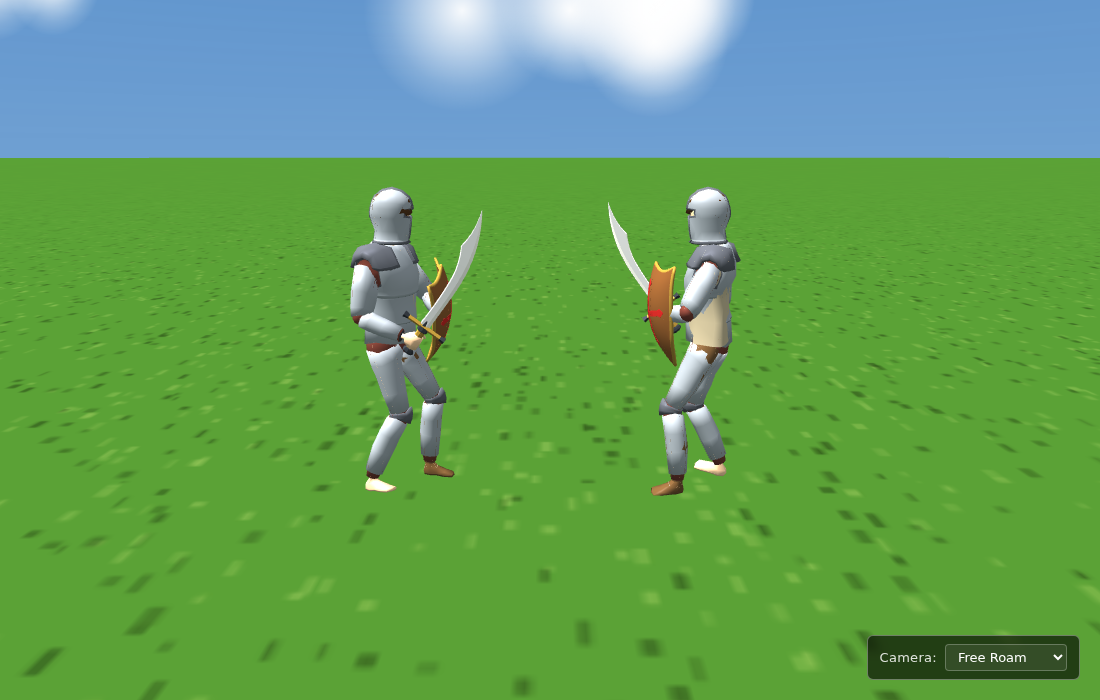
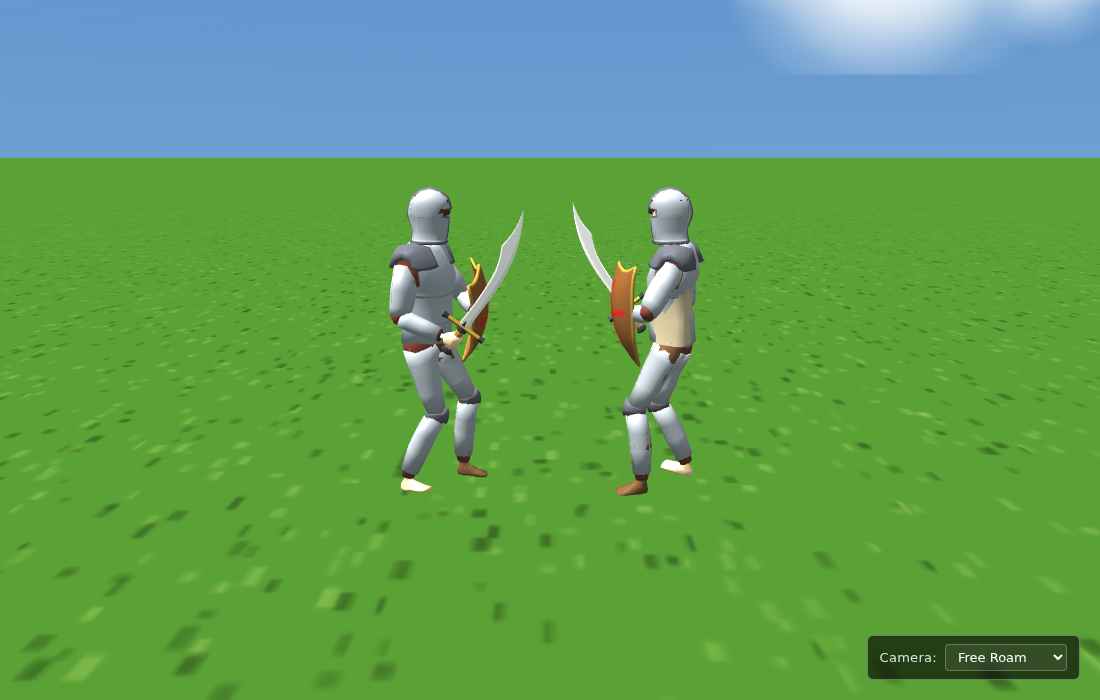
commit

diff --git a/src/game/characters/opponent.ts b/src/game/characters/opponent.ts
@@ -1,10 +1,7 @@
 import '@babylonjs/loaders/glTF'
 import {
-  Animation,
-  AnimationGroup,
   Color3,
   Mesh,
-  Quaternion,
   Scene,
   SceneLoader,
   StandardMaterial,
@@ -34,8 +31,8 @@ const MAT_COLORS: Record<string, Color3> = {
 const FALLBACK = new Color3(0.55, 0.55, 0.55)
 
 export type OpponentApi = {
-  playSlash: () => void
-  playBlock: () => void
+  // Empty for now — combat actions are user-authored animations bound to
+  // keys via the editor's animation row.
 }
 
 export function createOpponent(scene: Scene): Promise<OpponentApi | null> {
@@ -77,82 +74,8 @@ export function createOpponent(scene: Scene): Promise<OpponentApi | null> {
       result.animationGroups.forEach((g) => g.stop())
       combatIdle?.start(true)
 
-      // --- Block animation (coded, since the GLB doesn't ship one) ---
-      // Rotate Upper Arm.L so the arm raises in front + up, bringing the
-      // shield (held in Hand.L) toward the head. Forearm + hand follow as
-      // children — no separate keyframes needed for them.
-      const upperArmL = skeleton?.bones.find((b) => b.name === 'Upper Arm.L') ?? null
-      let restQuatL: Quaternion | null = null
-      if (upperArmL) {
-        upperArmL.rotationQuaternion =
-          upperArmL.rotationQuaternion ?? upperArmL.rotation.toQuaternion()
-        restQuatL = upperArmL.rotationQuaternion.clone()
-      }
-
-      // Block = small shoulder rotation that lifts the elbow ~30cm while
-      // keeping the shield nearly vertical (pure translation would stretch
-      // the skinned arm; small rotation is the clean way).
-      const upperArmLNode = upperArmL?._linkedTransformNode
-        ?? scene.getTransformNodeByName('Upper Arm.L')
-      const ensureQuat = (n: typeof upperArmLNode) => {
-        if (!n) return null
-        n.rotationQuaternion = n.rotationQuaternion ?? n.rotation.toQuaternion()
-        return n.rotationQuaternion.clone()
-      }
-      const restUpperL = ensureQuat(upperArmLNode)
-
-      let blockActive = false
-      const playBlock = () => {
-        if (!upperArmLNode || !restUpperL || blockActive) return
-        blockActive = true
-        combatIdle?.pause()
-
-        // ~40° rotation around local X — small enough to barely tilt the
-        // shield, big enough to lift elbow ~30cm at ~0.5m arm length.
-        const offset = Quaternion.RotationAxis(new Vector3(1, 0, 0), Math.PI * 0.22)
-        const blockQuat = restUpperL.multiply(offset)
-
-        const anim = new Animation(
-          'opp_block', 'rotationQuaternion', 30,
-          Animation.ANIMATIONTYPE_QUATERNION,
-          Animation.ANIMATIONLOOPMODE_CONSTANT,
-        )
-        anim.setKeys([
-          { frame: 0,  value: restUpperL.clone() },
-          { frame: 6,  value: blockQuat },
-          { frame: 18, value: blockQuat },
-          { frame: 26, value: restUpperL.clone() },
-        ])
-        scene.beginDirectAnimation(
-          upperArmLNode, [anim], 0, 26, false, 1.0,
-          () => {
-            blockActive = false
-            upperArmLNode.rotationQuaternion = restUpperL.clone()
-            combatIdle?.play(true)
-          },
-        )
-      }
-
-      let slashActive = false
-      const playSlash = () => {
-        if (!slashAnim || slashActive) return
-        slashActive = true
-        // Pause idle while slash plays so it doesn't fight for the bones
-        combatIdle?.pause()
-        slashAnim.stop()
-        slashAnim.onAnimationGroupEndObservable.addOnce(() => {
-          slashActive = false
-          combatIdle?.play(true)
-        })
-        slashAnim.start(false, 1.0)
-      }
-
       console.log(
-        `[opponent] knight loaded — ${result.meshes.length} meshes, ` +
-          `${result.skeletons.length} skeletons, ` +
-          `${result.animationGroups.length} animations. ` +
-          `Slash:${slashAnim ? 'yes' : 'NO'} Idle:${combatIdle ? 'yes' : 'NO'} ` +
-          `UpperArmL:${upperArmL ? 'yes' : 'NO'}`,
+        `[opponent] knight loaded — ${result.meshes.length} meshes`,
       )
 
       const playCustomAnimation = (keyframes: AnimationKeyframe[]) => {
@@ -165,7 +88,7 @@ export function createOpponent(scene: Scene): Promise<OpponentApi | null> {
 
       const api: OpponentApi & {
         playCustomAnimation: (kfs: AnimationKeyframe[]) => void
-      } = { playSlash, playBlock, playCustomAnimation }
+      } = { playCustomAnimation }
       ;(window as any).__opponent = api
       return api
     })

diff --git a/src/game/characters/hero.ts b/src/game/characters/hero.ts
@@ -1,9 +1,7 @@
 import '@babylonjs/loaders/glTF'
 import {
-  Animation,
   Color3,
   Mesh,
-  Quaternion,
   Scene,
   SceneLoader,
   StandardMaterial,
@@ -43,8 +41,6 @@ const HIDDEN_MESHES = new Set(['Helmet', 'Hair'])
 import type { TransformNode } from '@babylonjs/core'
 
 export type HeroApi = {
-  playStrike: () => void
-  playBlock: () => void
   getHeadNode: () => TransformNode | null
 }
 
@@ -99,60 +95,8 @@ export function createHero(scene: Scene): Promise<HeroApi | null> {
       const headBone = skeleton?.bones.find((b) => b.name === 'Head')
       const headNode = headBone?._linkedTransformNode ?? null
 
-      // --- Hero's block (mirror of opponent's coded block) ---
-      const upperArmL = skeleton?.bones.find((b) => b.name === 'Upper Arm.L')
-      const upperArmLNode = upperArmL?._linkedTransformNode ?? null
-      let restUpperL: Quaternion | null = null
-      if (upperArmLNode) {
-        upperArmLNode.rotationQuaternion =
-          upperArmLNode.rotationQuaternion ?? upperArmLNode.rotation.toQuaternion()
-        restUpperL = upperArmLNode.rotationQuaternion.clone()
-      }
-
-      let blockActive = false
-      const playBlock = () => {
-        if (!upperArmLNode || !restUpperL || blockActive) return
-        blockActive = true
-        combatIdle?.pause()
-        const offset = Quaternion.RotationAxis(new Vector3(1, 0, 0), Math.PI * 0.22)
-        const blockQuat = restUpperL.multiply(offset)
-        const anim = new Animation(
-          'hero_block', 'rotationQuaternion', 30,
-          Animation.ANIMATIONTYPE_QUATERNION,
-          Animation.ANIMATIONLOOPMODE_CONSTANT,
-        )
-        anim.setKeys([
-          { frame: 0,  value: restUpperL.clone() },
-          { frame: 6,  value: blockQuat },
-          { frame: 18, value: blockQuat },
-          { frame: 26, value: restUpperL.clone() },
-        ])
-        scene.beginDirectAnimation(
-          upperArmLNode, [anim], 0, 26, false, 1.0,
-          () => {
-            blockActive = false
-            upperArmLNode.rotationQuaternion = restUpperL!.clone()
-            combatIdle?.play(true)
-          },
-        )
-      }
-
-      let strikeActive = false
-      const playStrike = () => {
-        if (!slashAnim || strikeActive) return
-        strikeActive = true
-        combatIdle?.pause()
-        slashAnim.stop()
-        slashAnim.onAnimationGroupEndObservable.addOnce(() => {
-          strikeActive = false
-          combatIdle?.play(true)
-        })
-        slashAnim.start(false, 1.0)
-      }
-
       console.log(
-        `[hero] knight loaded — ${result.meshes.length} meshes, ` +
-          `Strike:${slashAnim ? 'yes' : 'NO'} Block:${upperArmLNode ? 'yes' : 'NO'}`,
+        `[hero] knight loaded — ${result.meshes.length} meshes`,
       )
 
       const playCustomAnimation = (keyframes: AnimationKeyframe[]) => {
@@ -166,8 +110,6 @@ export function createHero(scene: Scene): Promise<HeroApi | null> {
       const api: HeroApi & {
         playCustomAnimation: (kfs: AnimationKeyframe[]) => void
       } = {
-        playStrike,
-        playBlock,
         getHeadNode: () => headNode,
         playCustomAnimation,
       }

diff --git a/src/game/engine.ts b/src/game/engine.ts
@@ -110,8 +110,8 @@ export function createEngine(
     'editor_cam',
     Math.PI / 2,             // looking from +Z; models face each other along X
     Math.PI / 2.4,
-    5,                       // a bit further so both knights fit in frame
-    new Vector3(50, 1.0, 0),
+    5,
+    new Vector3(50.75, 1.0, 0),  // midpoint between Model 1 (50) and Model 2 (51.5)
     scene,
   )
   editorCam.fov = 0.9
@@ -195,10 +195,9 @@ export function createEngine(
         }
       }
     }
-    if (e.key === 'u' || e.key === 'U')   (window as any).__opponent?.playSlash?.()
-    if (e.key === 'Enter')                (window as any).__opponent?.playBlock?.()
-    if (e.key === 'q' || e.key === 'Q')   (window as any).__hero?.playStrike?.()
-    if (e.key === ' ')                  { e.preventDefault(); (window as any).__hero?.playBlock?.() }
+    // Legacy hardcoded Q/U/Space/Enter bindings removed — combat actions
+    // are now authored in the editor and bound to user-chosen keys via the
+    // animation row's Hero/Opp key inputs.
   }
   const onKeyUp = (e: KeyboardEvent) => {
     if (arrowSet.has(e.key)) { e.preventDefault(); setKey(e.key, false) }
@@ -400,13 +399,16 @@ export function createEngine(
         const m = active()
         activeAnimatables = playAnimation(scene, m.skeleton, keyframes, m.root)
       },
+      // ABSOLUTE world position of the active model's root (metres).
+      // Map-central, not model-relative — so you see where each model
+      // actually is in the scene (Model 1 starts at X≈50, Model 2 at X≈51.5).
       getBodyPosition: () => {
         const m = active()
         m.root.computeWorldMatrix(true)
         return {
-          x: m.root.position.x - m.position.x,
-          y: m.root.position.y - m.position.y,
-          z: m.root.position.z - m.position.z,
+          x: m.root.position.x,
+          y: m.root.position.y,
+          z: m.root.position.z,
         }
       },
       stopAnimation: () => stopActiveAnimation(),

diff --git a/src/editor/BoneControls.tsx b/src/editor/BoneControls.tsx
@@ -124,14 +124,14 @@ export default function BoneControls() {
         </button>
       </div>
 
-      {/* Always-visible BODY POSITION readout (world-space, from rest base) */}
+      {/* Always-visible BODY POSITION readout — active model's WORLD coords (metres). */}
       <div style={bodyPosBlockStyle}>
-        <div style={bodyPosLabelStyle}>BODY POSITION</div>
+        <div style={bodyPosLabelStyle}>BODY POSITION (world)</div>
         <div style={bodyPosRowStyle}>
-          <span style={bodyPosCellStyle}><span style={bodyPosAxisStyle}>X</span>{(bodyPos.x * 100).toFixed(0)}</span>
-          <span style={bodyPosCellStyle}><span style={bodyPosAxisStyle}>Y</span>{(bodyPos.y * 100).toFixed(0)}</span>
-          <span style={bodyPosCellStyle}><span style={bodyPosAxisStyle}>Z</span>{(bodyPos.z * 100).toFixed(0)}</span>
-          <span style={{ fontSize: 9, opacity: 0.4, marginLeft: 2 }}>cm</span>
+          <span style={bodyPosCellStyle}><span style={bodyPosAxisStyle}>X</span>{bodyPos.x.toFixed(2)}</span>
+          <span style={bodyPosCellStyle}><span style={bodyPosAxisStyle}>Y</span>{bodyPos.y.toFixed(2)}</span>
+          <span style={bodyPosCellStyle}><span style={bodyPosAxisStyle}>Z</span>{bodyPos.z.toFixed(2)}</span>
+          <span style={{ fontSize: 9, opacity: 0.4, marginLeft: 2 }}>m</span>
         </div>
       </div>
 

diff --git a/src/editor/editor-scene.ts b/src/editor/editor-scene.ts
@@ -12,12 +12,14 @@ import {
 import { POSITION_BONES } from './pose-store'
 
 // Editor knight area — two instances facing each other for combat practice.
-// Model 1 sits at -X side facing +X; Model 2 at +X side facing -X.
-// The editor camera target is between them (50, 1, 0).
-const MODEL1_POSITION = new Vector3(49.0, 0, 0)
-const MODEL2_POSITION = new Vector3(51.0, 0, 0)
-const MODEL1_YROT = -Math.PI / 2     // face +X (toward Model 2)
-const MODEL2_YROT = Math.PI / 2      // face -X (toward Model 1)
+// Model 1 keeps the original editor-knight world position (50, 0, 0); Model 2
+// stands ~1.5m to the +X side. Both face each other along the X axis.
+// (Knight's natural forward direction in the GLB is -Z, so rotations here
+// orient that local axis to face the other model.)
+const MODEL1_POSITION = new Vector3(50.0, 0, 0)
+const MODEL2_POSITION = new Vector3(51.5, 0, 0)   // 1.5m gap
+const MODEL1_YROT = -Math.PI / 2     // local -Z → +X (faces Model 2)
+const MODEL2_YROT =  Math.PI / 2     // local -Z → -X (faces Model 1)
 
 // Active bones: combat-relevant subset of the rig.
 //   Torso/head — Hips (whole-body lean), Spine, Chest, Neck, Head

diff --git a/src/editor/animation-player.ts b/src/editor/animation-player.ts
@@ -179,8 +179,11 @@ export function playAnimation(
         const d = kf.displacement ?? [0, 0, 0]
         cumulative.x += d[0]
         cumulative.y += d[1]
-        cumulative.z += d[2]
-        // Apply ONLY rotation (no scale) to convert local cumulative → world delta
+        // Knight GLB has -Z as its natural forward axis (artist convention).
+        // User authors "+Z = forward" intent, so negate to put it in the
+        // model's local frame before rotation. Without this, +Z displacement
+        // moves the character backwards.
+        cumulative.z -= d[2]
         const worldDelta = Vector3.Zero()
         cumulative.rotateByQuaternionToRef(rotQuat, worldDelta)
         rootKeys.push({
